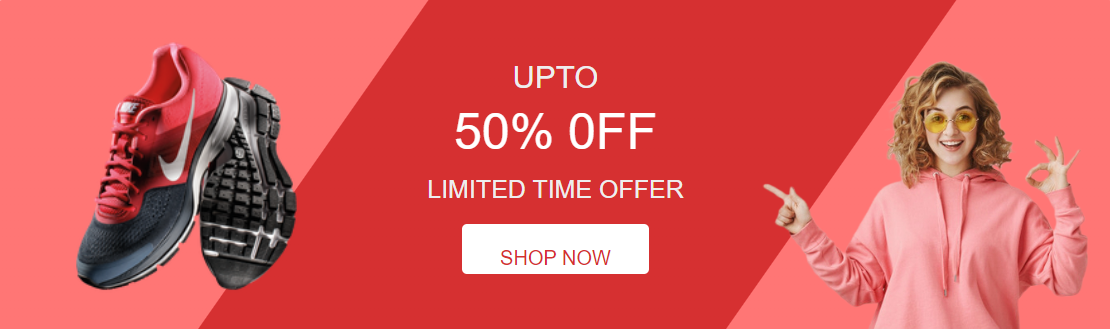
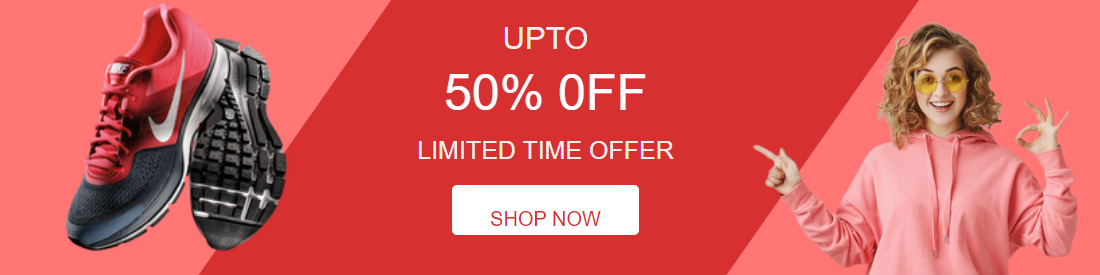
update

diff --git a/assets/css/marketmingle.css b/assets/css/marketmingle.css
@@ -1087,92 +1087,101 @@ Women
 banner addd 
 --------------------------------------------
 */
-*{
-  margin:0; padding:0;
-  box-sizing: border-box;
-  font-family: Arial, Helvetica, sans-serif;
-}
-
-
-
-.banner-container{
+.banner{
+ 
+ margin-bottom: -20%;
+  height: 100vh;
   display: flex;
-  align-items: center;
   justify-content: center;
+  align-items: center;
+  background: white;
 }
-
-.banner-container .banner{
-  background:linear-gradient(-55deg, #000000 29%, #5d5d5d 29.1%, #a8a8a8 68%, #ffffff 68.1%);
-  border-radius: 5px;
-  margin:10px;
-  display: flex;
-  align-items: center;
-  justify-content: center;
-  flex-wrap: wrap;
-  box-shadow: 0 5px 10px #0005;
+.slider{
+  width: 800px;
+  height: 500px;
+  border-radius: 10px;
   overflow: hidden;
 }
+.slides{
+  width: 500%;
+  height: 500px;
+  display: flex;
+}
+.slides input{
+  display: none;
+}
+.slide{
+  width: 20%;
+  transition: 2s;
+}
+.slide img{
+  width: 800px;
+  height: 300px;
+}
+.navigation-manual{
+  position: absolute;
+  width: 800px;
+  margin-top: -40px;
+  display: flex;
+  justify-content: center;
 
-.banner-container .banner .shoe{
-  flex:1 1 250px;
-  padding:15px;
-  text-align: center;
+}
+.manual-btn{
+  border: 2px solid #858694;
+  padding: 5px;
+  border-radius: 10px;
+  cursor: pointer;
+  transition: 1s;
 }
 
-.banner-container .banner .shoe img{
-  width:80%;
+.manual-btn:not(:last-child){
+  margin-right: 40px;
+}
+.manual-btn:hover{
+  background: #858694;
 }
 
-.banner-container .banner .content{
-  flex:1 1 250px;
-  text-align: center;
-  padding:10px;
-  text-transform: uppercase;
+#radio1:checked ~ .first{
+  margin-left: 0;
+}
+#radio2:checked ~ .first{
+  margin-left: -20%;
+}
+#radio3:checked ~ .first{
+  margin-left: -40%;
 }
 
-.banner-container .banner .content span{
-  color:#eee;
-  font-size: 25px;
+.navigation-auto{
+  position: absolute;
+  display: flex;
+  width: 800px;
+  justify-content:  center;
+  margin-top: 460px;
+
 }
 
-.banner-container .banner .content h3{
-  color:#fff;
-  font-size: 40px;
+.navigation-auto div{
+  border: 2px solid black;
+  padding: 5px;
+  border-radius: 10px;
+  transition: 1s;
+
 }
 
-.banner-container .banner .content p{
-  color:#eee;
-  font-size: 20px;
-  padding:10px 0;
+.navigation-auto div:not(last:child){
+  margin-right: 40px;
 }
 
-.banner-container .banner .content .btn{
-  display: block;
-  height:40px;
-  width:150px;
-  line-height: 40px;
-  background: #fff;
-  color:#d63031;
-  margin:5px auto;
-  text-decoration: none;
+#radio1:checked ~ .navigation-auto .auto-btn1{
+  background: #858694;
+}
+#radio2:checked ~ .navigation-auto .auto-btn2{
+  background: #858694;
+}
+#radio3:checked ~ .navigation-auto .auto-btn3{
+  background: #858694;
 }
 
-.banner-container .banner .women{
-  position: relative;
-  bottom: -33px;
-  padding:10px;
-  flex:1 1 250px;
-}
-
-.banner-container .banner .women img{
-  width:100%;
-}
-
-@media (max-width:768px){
-  .banner-container .banner .women{
-      display: none;
-  }
-}
 
 
 /*

diff --git a/index.html b/index.html
@@ -423,7 +423,38 @@ https://templatemo.com/tm-571-hexashop
         </div>
     </section>
     <!-- ***** Women Area Ends ***** -->
-    <!-- bannner-->
+<div class="banner">
+    <div class="slider">
+        <div class="slides">
+            <input type="radio" name="radio-btn" id="radio1">
+            <input type="radio" name="radio-btn" id="radio2">
+            <input type="radio" name="radio-btn" id="radio3">
+            
+            <div class="slide first">
+                <img src="assets/images/banner1.png" alt="">
+            </div>
+            <div class="slide">
+                <img src="assets/images/banner2.png" alt="">
+            </div>
+            <div class="slide">
+                <img src="assets/images/banner3.png" alt="">
+
+
+                <div class="navigation-auto">
+                    <div class="auto-btn1"></div>
+                    <div class="auto-btn2"></div>
+                    <div class="auto-btn3"></div>
+                </div>
+            </div>
+
+            <div class="navigation-manual">
+                <label for="radio1" class="manual-btn"></label>
+                <label for="radio2" class="manual-btn"></label>
+                <label for="radio3" class="manual-btn"></label>
+            </div>
+        </div>
+    </div>
+</div>
     
     
     <!-- ***** Kids Area Starts ***** -->
@@ -847,6 +878,17 @@ https://templatemo.com/tm-571-hexashop
             });
         });
 
+    </script>
+
+    <script type="text/javascript">
+     var counter= 1;
+     setInterval(function(){
+       document.getElementById("radio" + counter).checked=true;
+       counter++;
+       if(counter>3){
+        counter =1;
+       }
+     },3000);
     </script>
 
   </body>
